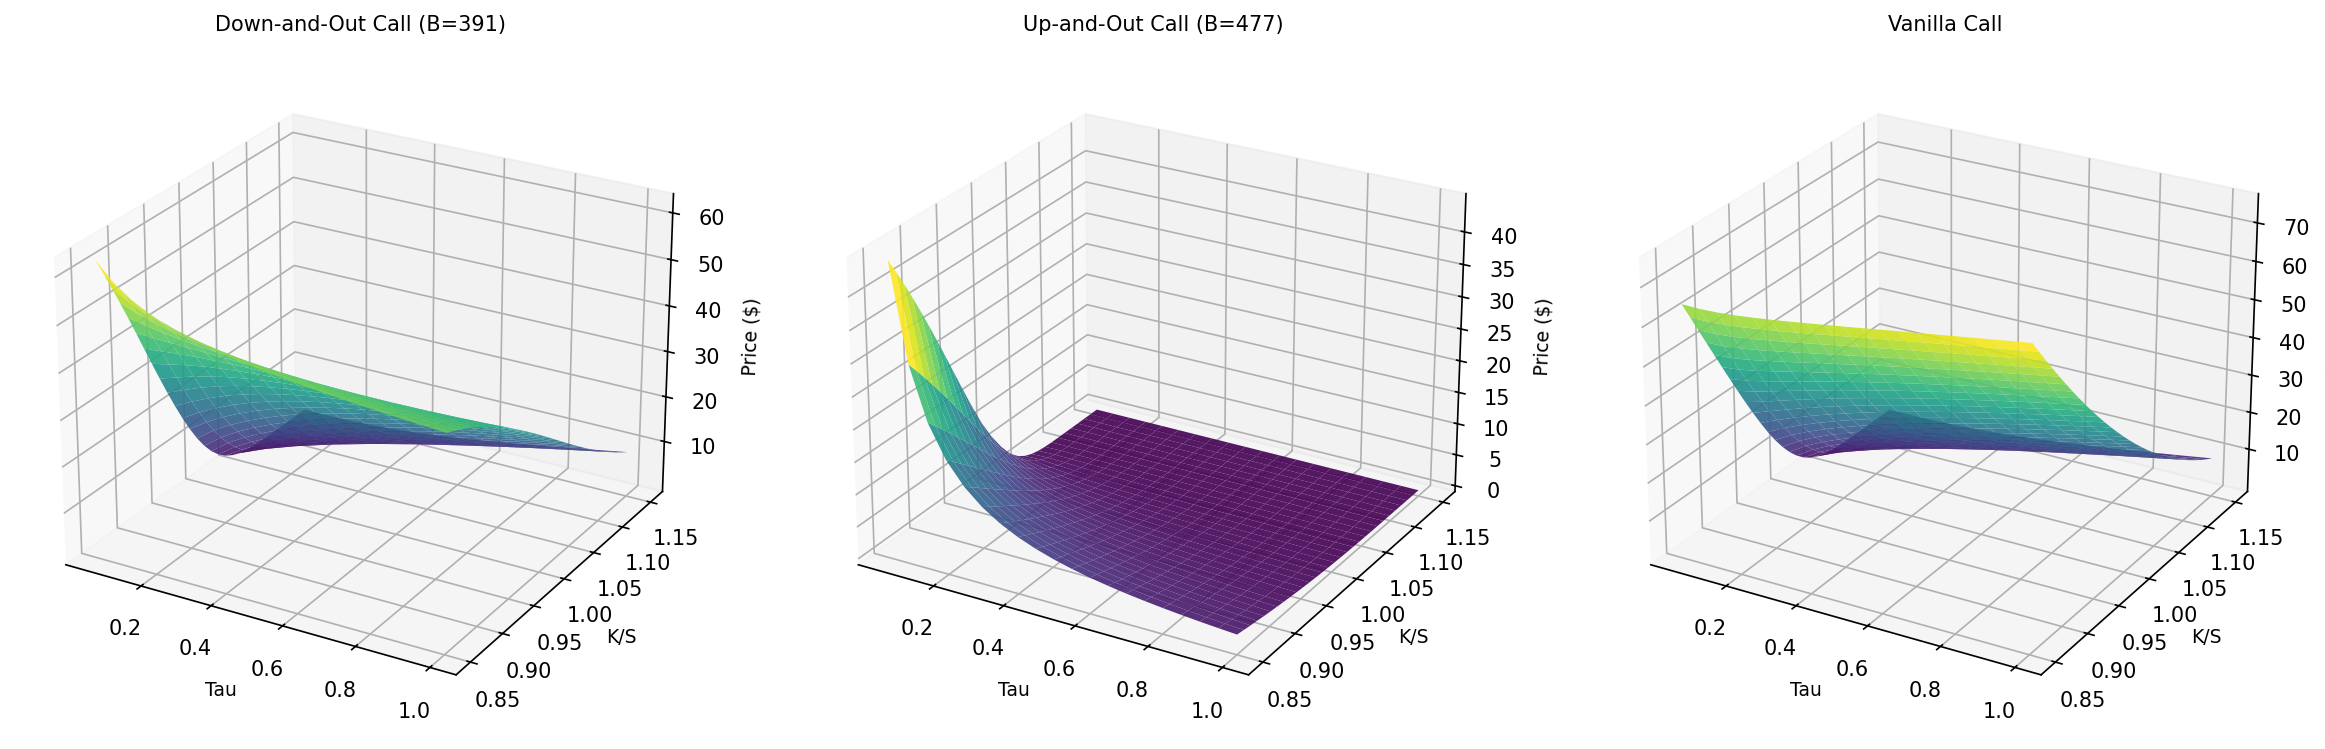
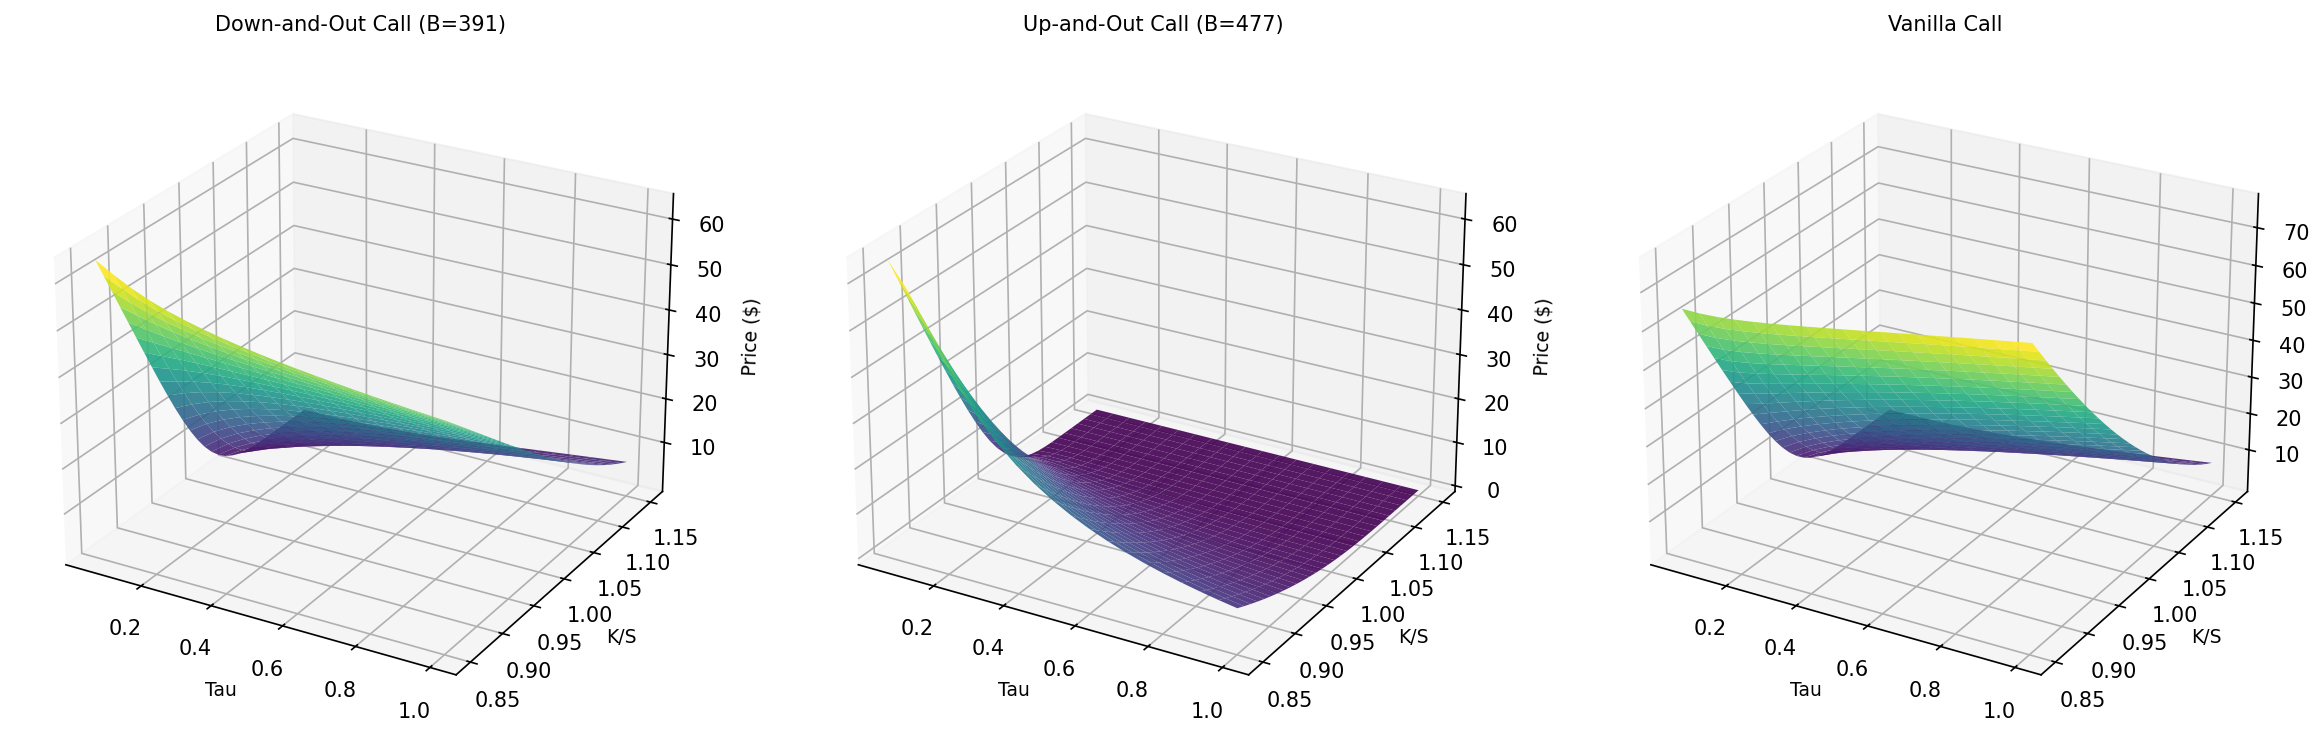
Barrier pinn fix

diff --git a/phase4_barriers/barrier_pinn.py b/phase4_barriers/barrier_pinn.py
@@ -121,7 +121,7 @@ class BarrierPriceNet(nn.Module):
 # ── Training Engine ─────────────────────────────────────────────────────────
 
 def train_barrier_pinn(barrier_m, barrier_type, sigma_func_frozen,
-                       r, q, m_domain, tau_max,
+                       r, q, m_spot, m_domain, tau_max,
                        normalizer, device,
                        n_epochs=5000, lr=1e-3,
                        n_pde=2000, n_ic=500,
@@ -163,26 +163,24 @@ def train_barrier_pinn(barrier_m, barrier_type, sigma_func_frozen,
         v = model(m_n, tau_n, m_pde)
 
         # Get frozen sigma at collocation points
-        with torch.no_grad():
-            sig_np = sigma_func_frozen(m_pde.detach().cpu().numpy(),
-                                        tau_pde.detach().cpu().numpy().mean())
-        # Approximate: evaluate sigma at mean tau for this batch
-        # More accurately, we should evaluate per-point:
-        sig_vals = []
+        # COORDINATE FIX: The PINN vol surface expects m_pinn = ln(S0/K_dupire).
+        # The FDM/PINN spatial grid uses m = ln(S/K). By Dupire, K_dupire = S,
+        # so m_pinn = ln(S0/S) = ln(S0/K) - ln(S/K) = m_spot - m_grid.
         tau_vals_np = tau_pde.detach().cpu().numpy()
         m_vals_np = m_pde.detach().cpu().numpy()
         unique_taus = np.unique(np.round(tau_vals_np, 4))
-        # Fast: evaluate at the per-point tau
         sig_all = np.zeros(n_pde)
         for tau_val in unique_taus:
             mask = np.abs(tau_vals_np - tau_val) < 5e-4
             if mask.any():
-                sig_all[mask] = sigma_func_frozen(m_vals_np[mask], float(tau_val))
+                m_query = m_spot - m_vals_np[mask]
+                sig_all[mask] = sigma_func_frozen(m_query, float(tau_val))
 
         # For points not covered (unlikely), use mean tau
         remaining = sig_all == 0
         if remaining.any():
-            sig_all[remaining] = sigma_func_frozen(m_vals_np[remaining],
+            m_query_rem = m_spot - m_vals_np[remaining]
+            sig_all[remaining] = sigma_func_frozen(m_query_rem,
                                                     float(tau_vals_np.mean()))
 
         sigma = torch.tensor(sig_all, dtype=torch.float32, device=device).unsqueeze(-1)
@@ -316,11 +314,13 @@ if __name__ == '__main__':
     normalizer = LogMoneynessNormalizer(m_scale=0.5, tau_max=T)
 
     # Train
+    m_spot = np.log(S / K)
     model, history = train_barrier_pinn(
         barrier_m=barrier_m,
         barrier_type=barrier_type,
         sigma_func_frozen=sf,
         r=r, q=q,
+        m_spot=m_spot,
         m_domain=(barrier_m, 1.0),
         tau_max=T,
         normalizer=normalizer,

diff --git a/phase4_barriers/validate_phase4.py b/phase4_barriers/validate_phase4.py
@@ -252,10 +252,11 @@ def plot_greeks_comparison(sigma_func, r, q):
     normalizer = LogMoneynessNormalizer(m_scale=0.5, tau_max=T)
 
     # Train PINN with calibrated LV
+    m_spot = np.log(S0 / K_ATM)
     model, _ = train_barrier_pinn(
         barrier_m=barrier_m, barrier_type='down-out',
         sigma_func_frozen=sigma_func,
-        r=r, q=q,
+        r=r, q=q, m_spot=m_spot,
         m_domain=(barrier_m, 0.3),
         tau_max=T, normalizer=normalizer, device=device,
         n_epochs=5000, lr=1e-3, n_pde=2000, n_ic=500,